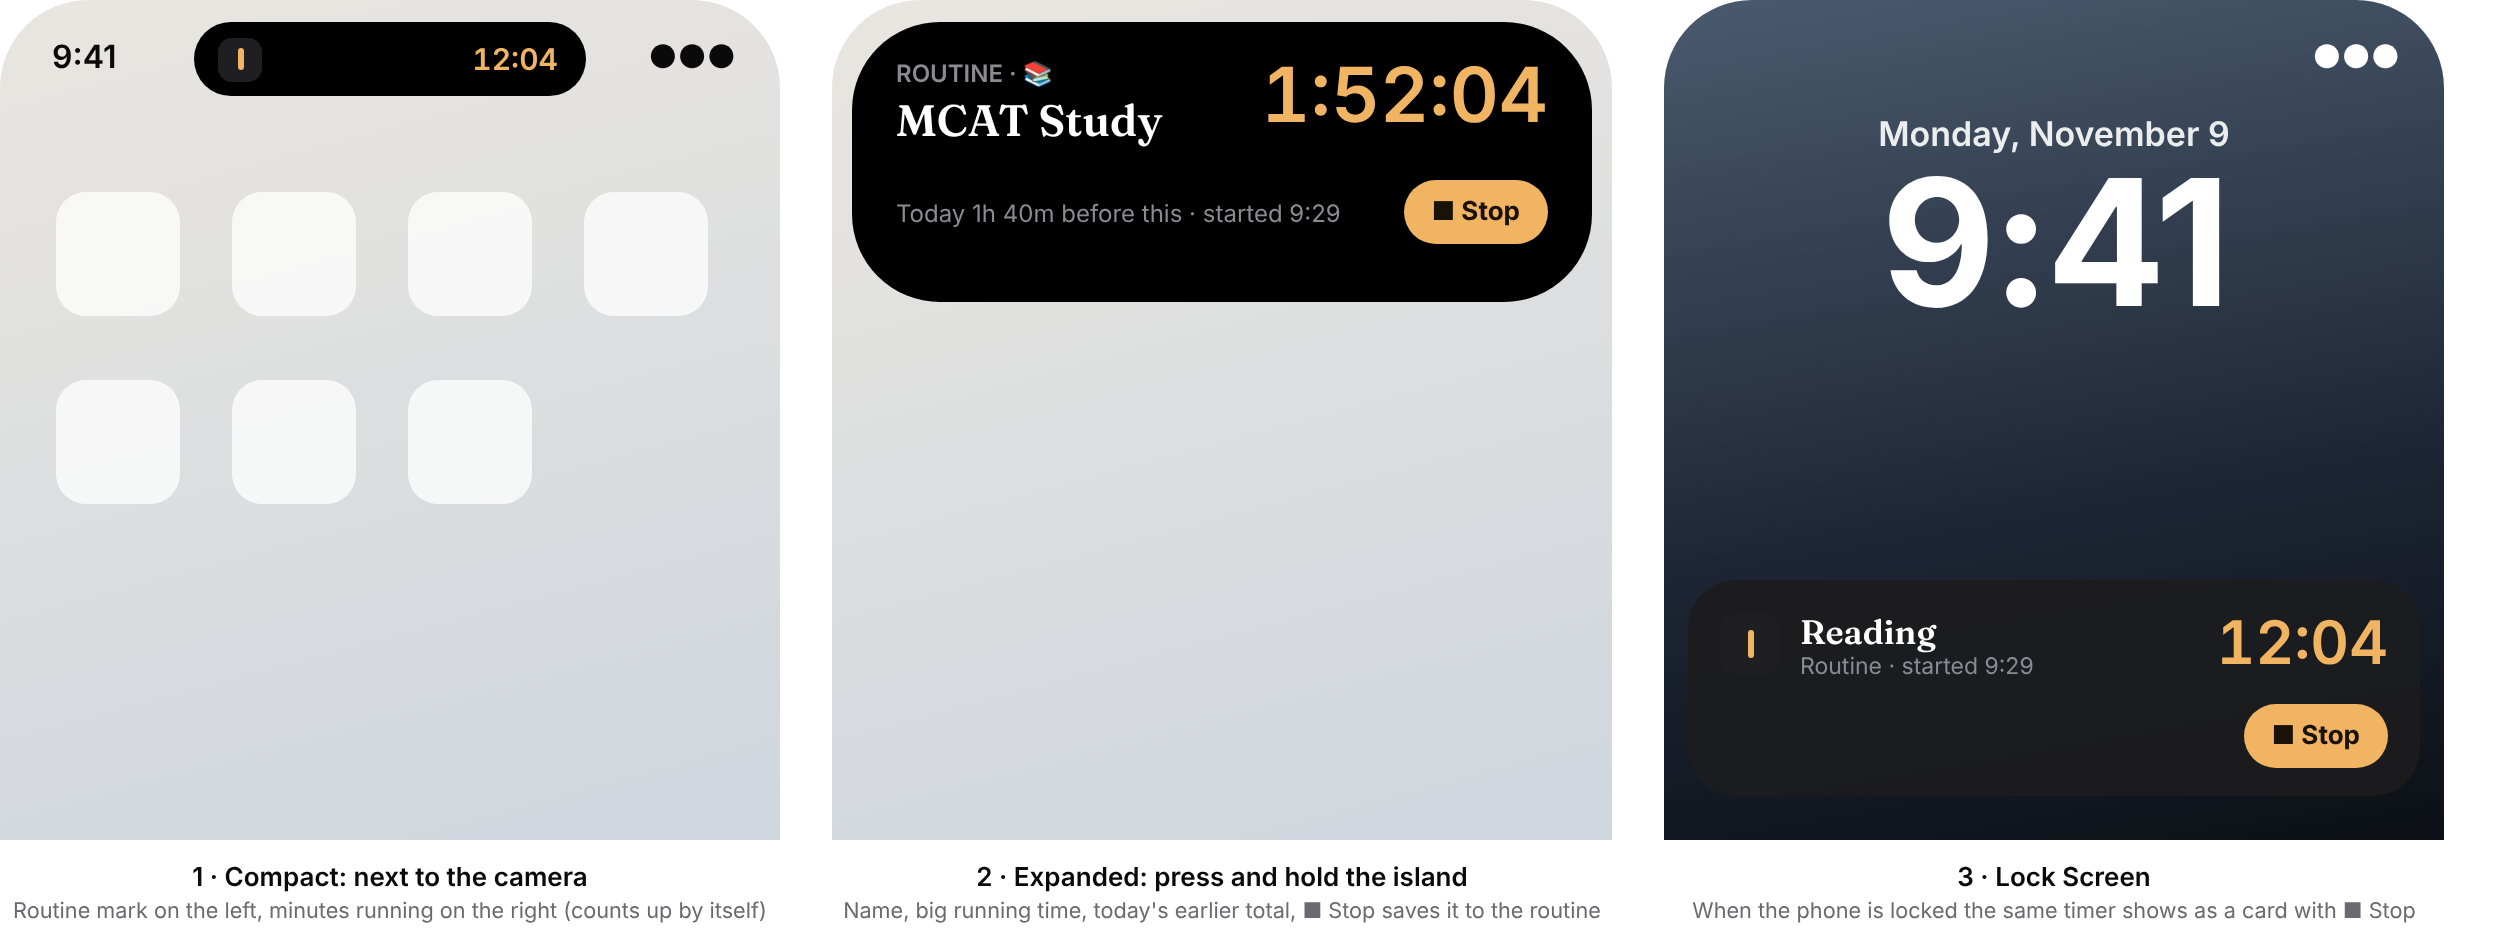
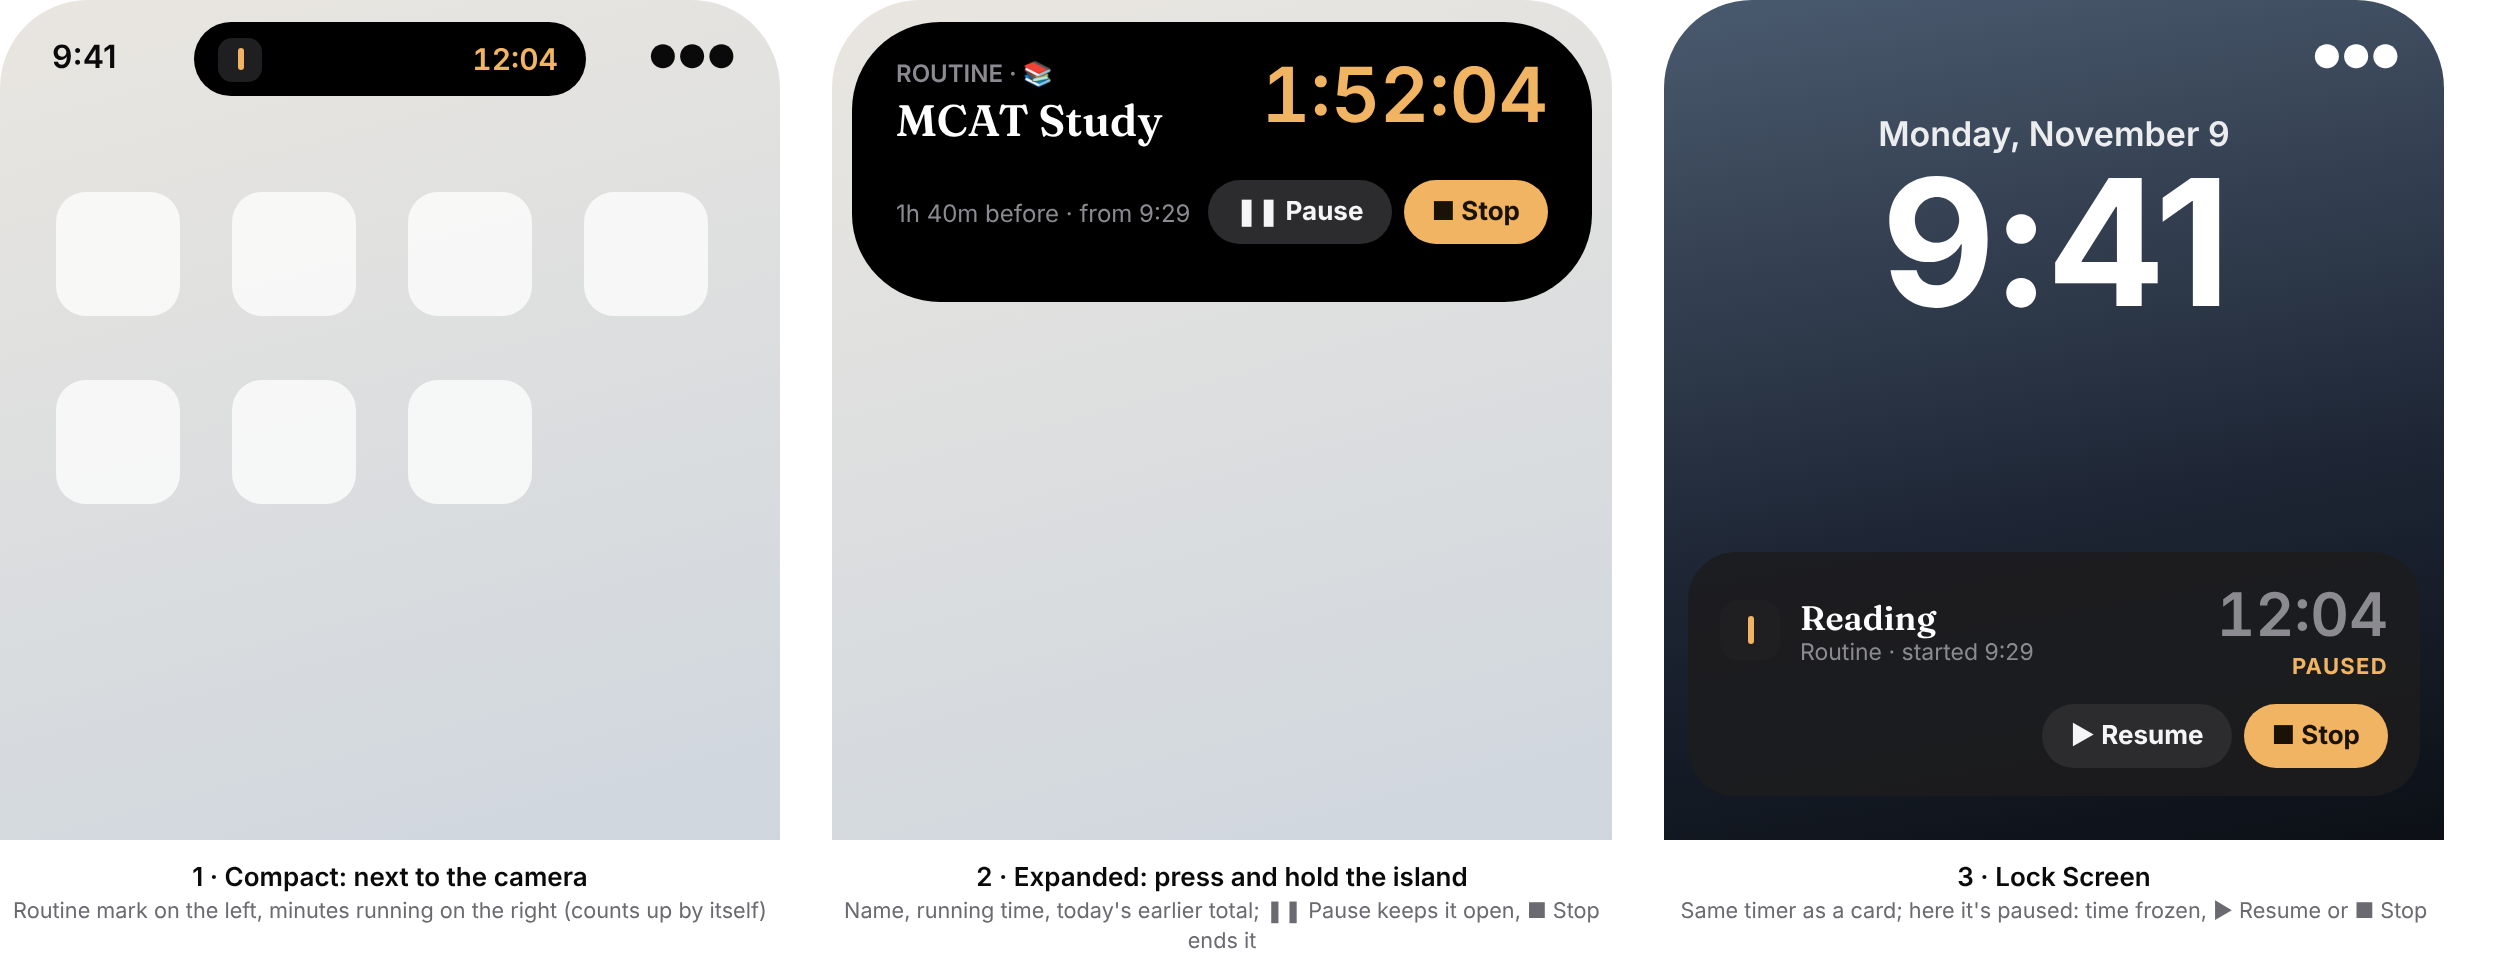
Add pause to the routine stopwatch (app and island design)
Claude-Session: https://claude.ai/code/session_01ASSW9g954rm1kx6hrjz3o3

diff --git a/js/day.js b/js/day.js
@@ -2,7 +2,7 @@
 import { h, icon, ICONS, fmt, todayKey, parseKey, daysBetween, toMinutes, shortTime, formatDuration, formatClock, formatNumber } from './util.js';
 import {
   cur, save, eventsOn, todosOn, isDone, isRoutine, toggleDone, childCategories,
-  isTracked, valueOn, setValue, startTimer, stopTimer, routineStats, hasDue, rollsOver, isStarred, folderHome,
+  isTracked, valueOn, setValue, startTimer, stopTimer, pauseTimer, timerRunning, timerPaused, routineStats, hasDue, rollsOver, isStarred, folderHome,
 } from './store.js';
 import { askText, tell, snack } from './ui.js';
 import { sharedTodosOn, sharedEventsOn, isSharedDone, toggleShared, nameOf } from './social.js';
@@ -39,28 +39,32 @@ function tracker(t, key) {
     }, value ? formatNumber(value) : '0'));
   }
 
-  const running = t.timer && t.timer.key === key;
+  const running = timerRunning(t, key);
+  const paused = timerPaused(t, key);
   const pill = h('button', {
-    class: `track-pill${value || running ? ' has' : ''}${running ? ' running' : ''}`,
+    class: `track-pill${value || running ? ' has' : ''}${running ? ' running' : ''}${paused ? ' paused' : ''}`,
     'aria-label': `Time for ${t.title}: ${value ? formatDuration(value) : 'none'}`,
     onclick: async () => {
-      if (running) return;
+      if (running || paused) return;
       const mins = value ? `${Math.floor(value / 3600)}:${String(Math.round((value % 3600) / 60)).padStart(2, '0')}` : '';
       const input = await askText({ title: t.title, message: 'Time spent: minutes, or h:mm', value: mins, placeholder: 'e.g. 45 or 1:30', inputmode: 'numeric' });
       if (input === null) return;
       const secs = parseMinutes(input);
       if (secs !== null) setValue(t, key, secs);
     },
-  }, running ? formatClock(value + (Date.now() - t.timer.start) / 1000) : value ? formatDuration(value) : '0m');
+  }, running ? formatClock(value + (Date.now() - t.timer.start) / 1000) : paused ? formatClock(value) : value ? formatDuration(value) : '0m');
   if (running) {
     pill.dataset.liveStart = String(t.timer.start);
     pill.dataset.liveBase = String(value);
   }
-  const watch = h('button', {
-    class: `track-btn${running ? ' running' : ''}`, 'aria-label': running ? 'Stop stopwatch' : 'Start stopwatch',
-    onclick: () => (running ? stopTimer(t) : startTimer(t, key)),
-  }, icon(running ? ICONS.stop : ICONS.play));
-  return h('span', { class: 'tracker' }, pill, watch);
+  // Running: ⏸ pause + ■ stop. Paused: ▶ resume + ■ stop. Idle: ▶ start.
+  const btn = (label, ic, fn, cls = '') => h('button', { class: `track-btn${cls}`, 'aria-label': label, onclick: fn }, icon(ic));
+  const buttons = running
+    ? [btn('Pause stopwatch', ICONS.pause, () => pauseTimer(t), ' running'), btn('Stop stopwatch', ICONS.stop, () => stopTimer(t))]
+    : paused
+      ? [btn('Resume stopwatch', ICONS.play, () => startTimer(t, key), ' running'), btn('Stop stopwatch', ICONS.stop, () => stopTimer(t))]
+      : [btn('Start stopwatch', ICONS.play, () => startTimer(t, key))];
+  return h('span', { class: 'tracker' }, pill, ...buttons);
 }
 
 // Update running stopwatches in place (called every second by app.js).

diff --git a/docs/native-widgets/source/island-timer.html b/docs/native-widgets/source/island-timer.html
@@ -20,7 +20,7 @@ body { font-family: -apple-system, "SF Pro Text", "Helvetica Neue", Arial, sans-
 .ico { width: 22px; height: 22px; border-radius: 7px; display: grid; place-items: center; background: #1f1f22; }
 .ico i { width: 3px; height: 11px; border-radius: 2px; background: #f0b462; }
 .island.expanded { width: 370px; height: 140px; border-radius: 44px; padding: 18px 22px; }
-.btn { font: 700 13px -apple-system, Arial; padding: 8px 14px; border-radius: 999px; }
+.btn { font: 700 13px -apple-system, Arial; padding: 8px 14px; border-radius: 999px; white-space: nowrap; }
 .stop { background: #f0b462; color: #1a1207; }
 .done { background: #2c2c2e; color: #f5f5f7; }
 .card { position: absolute; left: 12px; right: 12px; bottom: 22px; border-radius: 24px; background: rgba(28,28,30,.92); padding: 14px 16px; }
@@ -59,12 +59,12 @@ body { font-family: -apple-system, "SF Pro Text", "Helvetica Neue", Arial, sans-
         <div class="timer amber" style="font-size:38px;line-height:1">1:52:04</div>
       </div>
       <div style="display:flex;justify-content:space-between;align-items:center;margin-top:16px">
-        <span style="font-size:12px;color:#8a8a90">Today 1h 40m before this · started 9:29</span>
-        <span style="display:flex;gap:6px"><span class="btn stop">■ Stop</span></span>
+        <span style="font-size:12px;color:#8a8a90">1h 40m before · from 9:29</span>
+        <span style="display:flex;gap:6px"><span class="btn done">❚❚ Pause</span><span class="btn stop">■ Stop</span></span>
       </div>
     </div>
   </div>
-  <div class="label">2 · Expanded: press and hold the island<small>Name, big running time, today's earlier total, ■ Stop saves it to the routine</small></div>
+  <div class="label">2 · Expanded: press and hold the island<small>Name, running time, today's earlier total; ❚❚ Pause keeps it open, ■ Stop ends it</small></div>
 </div>
 
 <!-- 3 · Lock Screen: same timer as a card -->
@@ -82,12 +82,12 @@ body { font-family: -apple-system, "SF Pro Text", "Helvetica Neue", Arial, sans-
             <div style="font-size:11.5px;color:#8a8a90">Routine · started 9:29</div>
           </div>
         </div>
-        <div class="timer amber" style="font-size:30px">12:04</div>
+        <div style="text-align:right"><div class="timer" style="font-size:30px;color:#8a8a90">12:04</div><div style="font-size:11px;color:#f0b462;font-weight:700;letter-spacing:.06em">PAUSED</div></div>
       </div>
-      <div style="display:flex;justify-content:flex-end;gap:6px;margin-top:12px"><span class="btn stop">■ Stop</span></div>
+      <div style="display:flex;justify-content:flex-end;gap:6px;margin-top:12px"><span class="btn done">▶ Resume</span><span class="btn stop">■ Stop</span></div>
     </div>
   </div>
-  <div class="label">3 · Lock Screen<small>When the phone is locked the same timer shows as a card with ■ Stop</small></div>
+  <div class="label">3 · Lock Screen<small>Same timer as a card; here it's paused: time frozen, ▶ Resume or ■ Stop</small></div>
 </div>
 
 </div>

diff --git a/tests/stopwatch.test.js b/tests/stopwatch.test.js
@@ -1,0 +1,43 @@
+// Routine stopwatch: start, pause (time is kept, session stays open), resume, stop.
+const { check, wait, browser, phone, inApp, done } = require('./helpers');
+
+(async () => {
+  const b = await browser();
+  const p = await phone(b, 'c@x');
+  await inApp(p, (s) => {
+    const key = new Date().toLocaleDateString('sv');
+    s.state.todos.push({ id: 'w', title: 'MCAT Study', date: key, repeat: 'daily', until: '', doneOn: {}, track: 'time', values: {} });
+    s.save();
+  });
+  await p.locator('.cal-rows button.today').click(); await wait(1200);
+  const row = '.todo:has-text("MCAT Study")';
+  const secs = () => inApp(p, (s) => { const t = s.state.todos.find((x) => x.id === 'w'); return Object.values(t.values || {})[0] || 0; });
+  const timer = () => inApp(p, (s) => s.state.todos.find((x) => x.id === 'w').timer);
+  // Pretend time passes by moving the start back.
+  const ago = (ms) => inApp(p, (s, c, m) => { const t = s.state.todos.find((x) => x.id === 'w'); t.timer.start -= m; s.save(); }, ms);
+
+  await p.click(`${row} [aria-label="Start stopwatch"]`); await wait(400);
+  check('▶ starts it, with ⏸ and ■', await p.locator(`${row} [aria-label="Pause stopwatch"]`).count() === 1 && await p.locator(`${row} [aria-label="Stop stopwatch"]`).count() === 1);
+  await ago(10 * 60000); await wait(1200);
+  check('the time counts up', /10:0\d/.test(await p.locator(`${row} .track-pill`).innerText()), await p.locator(`${row} .track-pill`).innerText());
+
+  await p.click(`${row} [aria-label="Pause stopwatch"]`); await wait(400);
+  check('⏸ keeps the time so far', Math.abs(await secs() - 600) <= 2, await secs());
+  check('…and the session stays open (paused)', (await timer())?.start === null);
+  check('paused shows ▶ resume and ■', await p.locator(`${row} [aria-label="Resume stopwatch"]`).count() === 1 && await p.locator(`${row} .track-pill.paused`).count() === 1);
+  const frozen = await p.locator(`${row} .track-pill`).innerText(); await wait(2200);
+  check('a paused time doesn\'t move', await p.locator(`${row} .track-pill`).innerText() === frozen, frozen);
+
+  await p.click(`${row} [aria-label="Resume stopwatch"]`); await wait(400);
+  await ago(5 * 60000);
+  await p.click(`${row} [aria-label="Stop stopwatch"]`); await wait(400);
+  check('■ adds the resumed time and ends it', Math.abs(await secs() - 900) <= 3 && (await timer()) === null, await secs());
+  check('after stop only ▶ start shows', await p.locator(`${row} [aria-label="Start stopwatch"]`).count() === 1 && await p.locator(`${row} [aria-label="Stop stopwatch"]`).count() === 0);
+
+  await p.click(`${row} [aria-label="Start stopwatch"]`); await wait(300);
+  await p.click(`${row} [aria-label="Pause stopwatch"]`); await wait(300);
+  await p.click(`${row} [aria-label="Stop stopwatch"]`); await wait(300);
+  check('stop while paused doesn\'t add extra time', Math.abs(await secs() - 900) <= 3, await secs());
+  check('no page errors', !p.errors.length, p.errors.join('; '));
+  await done(b);
+})();

diff --git a/js/store.js b/js/store.js
@@ -257,17 +257,36 @@ export function setValue(todo, key, value) {
 }
 
 // The stopwatch is stored as a start time, so it keeps running while the app is closed.
+// Pausing adds the time so far to the day's value and keeps the session open
+// (timer.start = null); ▶ resumes it, ■ ends it.
+export const timerRunning = (todo, key) => !!(todo.timer && todo.timer.key === key && todo.timer.start);
+export const timerPaused = (todo, key) => !!(todo.timer && todo.timer.key === key && !todo.timer.start);
+
+const banked = (todo) => {
+  const { key, start } = todo.timer;
+  if (start) todo.values = { ...todo.values, [key]: valueOn(todo, key) + Math.round((Date.now() - start) / 1000) };
+};
+
 export function startTimer(todo, key) {
-  if (todo.timer) stopTimer(todo, false);
-  todo.timer = { key, start: Date.now() };
+  if (timerPaused(todo, key)) todo.timer = { key, start: Date.now() };
+  else {
+    if (todo.timer) stopTimer(todo, false);
+    todo.timer = { key, start: Date.now() };
+  }
+  save();
+}
+
+export function pauseTimer(todo) {
+  if (!todo.timer?.start) return;
+  banked(todo);
+  todo.timer = { key: todo.timer.key, start: null };
   save();
 }
 
 export function stopTimer(todo, persist = true) {
   if (!todo.timer) return;
-  const { key, start } = todo.timer;
+  banked(todo);
   todo.timer = null;
-  todo.values = { ...todo.values, [key]: valueOn(todo, key) + Math.round((Date.now() - start) / 1000) };
   if (persist) save();
 }
 

diff --git a/js/util.js b/js/util.js
@@ -31,6 +31,7 @@ export const ICONS = {
   updown: '<path d="M8 9.5l4-4 4 4M8 14.5l4 4 4-4"/>',
   play: '<path d="M8 5.8v12.4l10-6.2z"/>',
   stop: '<rect x="6.5" y="6.5" width="11" height="11" rx="2"/>',
+  pause: '<rect x="7" y="6" width="3.6" height="12" rx="1.2"/><rect x="13.4" y="6" width="3.6" height="12" rx="1.2"/>',
   close: '<path d="M6 6l12 12M18 6L6 18"/>',
   grid: '<rect x="4" y="4" width="6.5" height="6.5" rx="1.6"/><rect x="13.5" y="4" width="6.5" height="6.5" rx="1.6"/><rect x="4" y="13.5" width="6.5" height="6.5" rx="1.6"/><rect x="13.5" y="13.5" width="6.5" height="6.5" rx="1.6"/>',
   link: '<path d="M10 14a4 4 0 0 0 5.7 0l3-3a4 4 0 0 0-5.7-5.7l-1.3 1.3"/><path d="M14 10a4 4 0 0 0-5.7 0l-3 3a4 4 0 0 0 5.7 5.7l1.3-1.3"/>',

diff --git a/styles.css b/styles.css
@@ -325,6 +325,7 @@ svg { width: 20px; height: 20px; fill: none; stroke: currentColor; stroke-width:
 .routines .track-pill { background: var(--bg); }
 .track-pill.has { color: var(--fg); }
 .track-pill.running { background: var(--accent); color: var(--on-accent); border-color: var(--accent); }
+.track-pill.paused { color: var(--accent); border-color: var(--accent); }
 .track-btn { width: 24px; height: 24px; border-radius: 50%; display: grid; place-items: center; color: var(--muted); }
 .track-btn svg { width: 12px; height: 12px; stroke-width: 2; fill: currentColor; }
 .track-btn.running { color: var(--accent); }

diff --git a/sw.js b/sw.js
@@ -1,5 +1,5 @@
 // Bump CACHE whenever any file in ASSETS changes, so installed copies update.
-const CACHE = 'planner-v95';
+const CACHE = 'planner-v96';
 const ASSETS = [
   './',
   'index.html',

diff --git a/CLAUDE.md b/CLAUDE.md
@@ -87,8 +87,8 @@ unfinished one-off to-do moves forward to today** until checked off (`rollsOver`
 `todoDate`; computed, never written on open, so opening can't create a sync edit); it shows
 its original date as a small gray tag, and checking it off pins `date` to that day.
 **Due date** (one-off only): starred from its due day, "D-3" tag (instead of the date tag).
-**Tracking** (optional): Count or Time (stopwatch stored as a start timestamp,
-`values[dateKey]`); tapping "Routines" shows per-routine stats. **Important ★** = accent
+**Tracking** (optional): Count or Time (stopwatch `timer: { key, start }`, start = epoch ms,
+`null` = paused; ▶ / ⏸ pause / ■ stop; pause and stop add the time to `values[dateKey]`); tapping "Routines" shows per-routine stats. **Important ★** = accent
 dot. **Folders** nest ("Academic/Biology"); open/closed saved in
 `category.open`; underline color from 20 `FOLDER_COLORS` (`js/folders.js`); a folder shows
 in a day if it has that day's to-dos; Settings lists them (rename/recolor/sub-folder/
@@ -241,7 +241,8 @@ Keep the internal names as they are, or users lose data/sessions: `planner.v1`,
   todos:  [{ id, title, date: 'YYYY-MM-DD', important, notes, category: id | null,
              repeat, until, done /* one-off */, doneOn: { key: true } /* routines */,
              due: '' | key, skipOn: { key: true }, track: 'none'|'count'|'time',
-             values: { key: number }, timer: { key, start } | null, order? /* hand-sorted */ }],
+             values: { key: number }, timer: { key, start: ms | null /* paused */ } | null,
+             order? /* hand-sorted */ }],
   events: [{ id, title, date, allDay, start: 'HH:MM', end: 'HH:MM', repeat, until,
              alert: 'none' | '<minutes before>', important, notes, shoot? /* film */ }],
   categories: [{ id, name, parent: id | null, open, color, section?: 'routine'|'todo' }],
@@ -287,7 +288,7 @@ vault / pg_net / pg_cron) and `db/seed.sql` (users a@x, b@x, c@x, password `secr
 is friends with bob and carol; an alice↔bob chat), runs `mock-server.js` on :54321
 (PostgREST + GoTrue + Storage + RPC + Realtime stand-in with real RLS; `Bearer service` =
 service role) and the app on :8765. Suites: `sync`, `todos` (roll-over across days with a fake clock), `folders` (folder
-sheet, + in a folder, drag between folders), `badge` (icon badge = unread only), `desktop` (Desktop
+sheet, + in a folder, drag between folders), `badge` (icon badge = unread only), `stopwatch` (start / pause / resume / stop), `desktop` (Desktop
 Chrome: mouse, keyboard, window sizes), `storage`, `resilience` (offline, 2 minutes open: errors + memory,
 sign-out cleanup), `motion`, `preview`, `shoot`,
 `app-features` (push sign-up, instant chat, search, backups, clean-up, ping) and
@@ -313,7 +314,7 @@ private key or the push secret.
 The service worker installs with `cache: 'reload'`, fetches with `cache: 'no-cache'` and
 reloads once on `controllerchange`, so the owner only closes and reopens the app once.
 **When you change any file the app loads, bump `CACHE` in `sw.js`** (currently
-`planner-v95`) and keep `ASSETS` in sync with every file in `js/` and `fonts/`.
+`planner-v96`) and keep `ASSETS` in sync with every file in `js/` and `fonts/`.
 
 ## Git
 

diff --git a/docs/native-widgets/README.md b/docs/native-widgets/README.md
@@ -12,7 +12,8 @@ open, solid = done, done = struck through). Film mode = warm black `#0d0c0a`, cr
 
 ## What's new (since the version first sent)
 
-- **New design 5**: routine stopwatch in the Dynamic Island / Lock Screen (below).
+- **New design 5**: routine stopwatch in the Dynamic Island / Lock Screen (below), with
+  **Pause** (`timer.start = null`) as well as Stop.
 - **To-do order**: to-dos can be dragged into any order. Each one may have `order` (number,
   lower = higher up); show them the way the app does: unfinished first, then by `order`
   (to-dos without one after), then starred first.
@@ -85,12 +86,16 @@ Screen or the app) ends it.
   time on the right, counting up by itself (`Text(timerInterval: start...Date.distantFuture,
   countsDown: false)`, no updates needed).
 - **Expanded** (press and hold the island): folder + routine name, big running time, today's
-  earlier total ("1h 40m before this"), start time, ■ Stop (App Intent).
-- **Lock Screen**: the same as a card with ■ Stop. **Minimal** (two activities at once): the
+  earlier total ("1h 40m before this"), start time, **❚❚ Pause** and **■ Stop** (App Intents).
+- **Paused**: the time stops and shows "PAUSED" (gray time); buttons become **▶ Resume** and
+  **■ Stop**. The activity stays until Stop.
+- **Lock Screen**: the same as a card with the same buttons. **Minimal** (two activities at once): the
   amber mark only.
-- Data: the web app stores a running stopwatch on the to-do as `timer: { key, start }`
-  (`start` = epoch ms) and the day's saved seconds in `values[key]`; Stop adds the elapsed
-  seconds to `values[key]` and clears `timer`. A timer started on another device should start
+- Data: the web app stores the stopwatch on the to-do as `timer: { key, start }` (`start` =
+  epoch ms while running, `null` while paused) and the day's saved seconds in `values[key]`.
+  Pause adds the elapsed seconds to `values[key]` and sets `start: null`; Resume sets `start`
+  to now; Stop adds any running time and clears `timer` (null). Shown time = `values[key]` +
+  (running ? now − start : 0). A timer started on another device should start
   the activity too (via ActivityKit push, or when the app opens).
 - Only one stopwatch runs at a time in the app; if the Lock Screen card (1) is also showing,
   its Routines tab shows the same timer.
